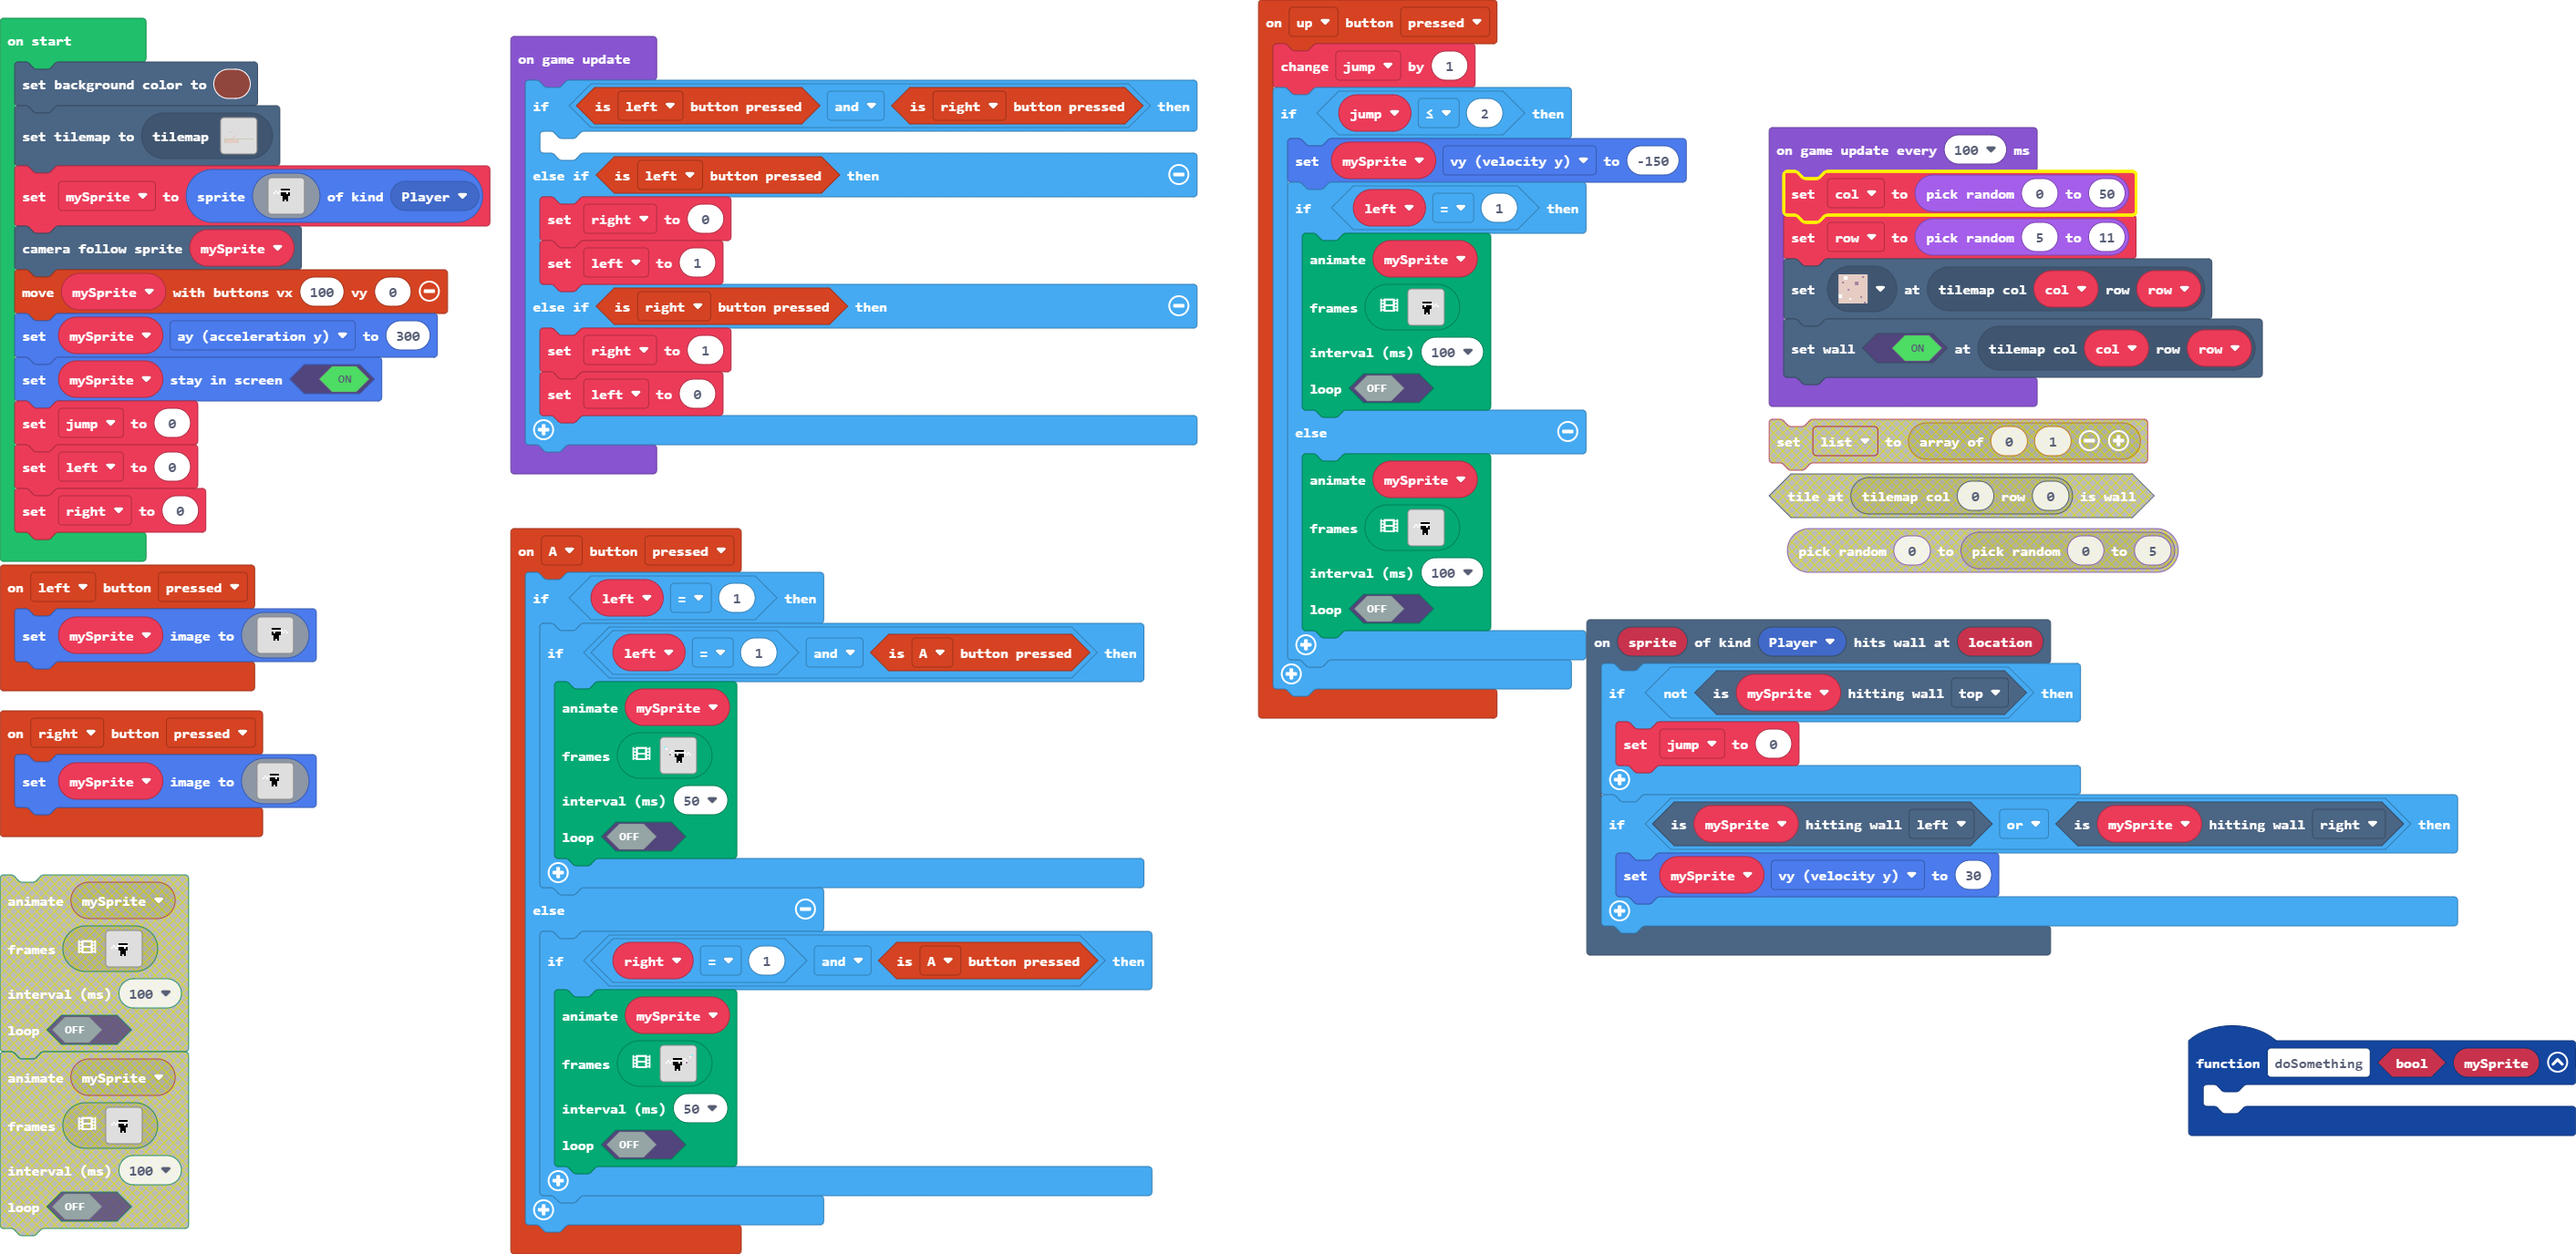
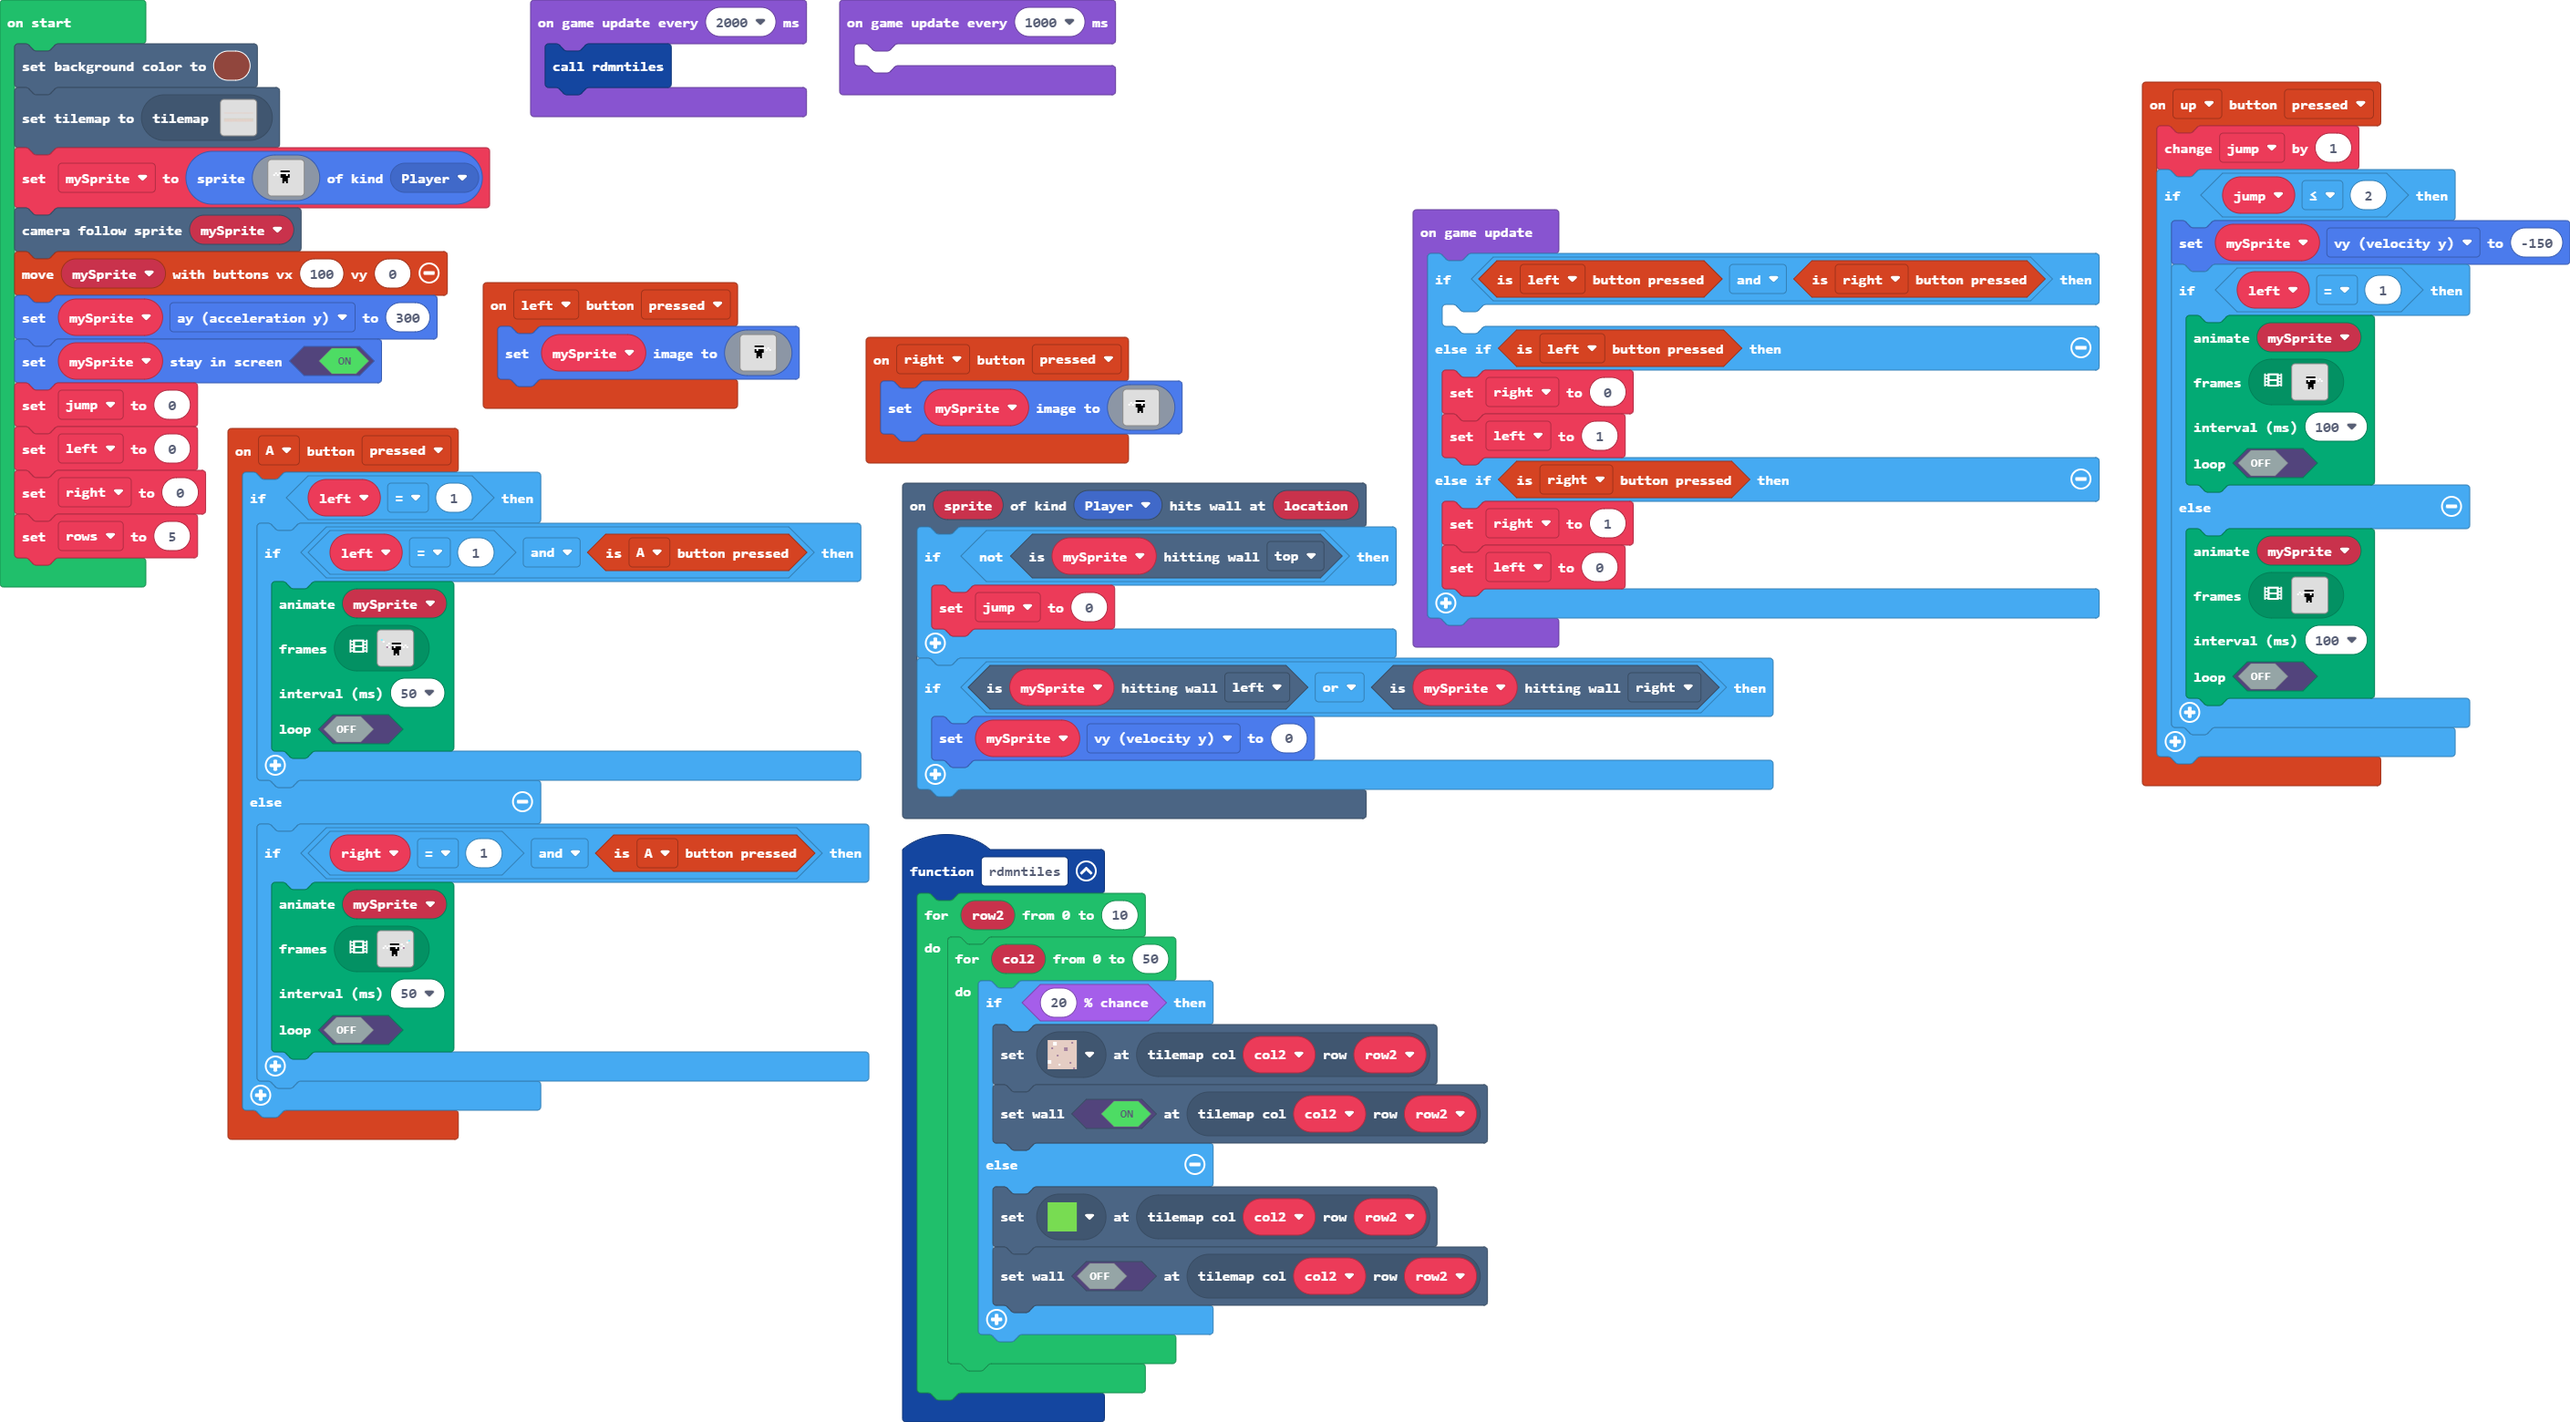
Update main.blocks, main.ts, tilemap.g.jres, tilemap.g.ts

diff --git a/tilemap.g.ts b/tilemap.g.ts
@@ -4,8 +4,6 @@ namespace myTiles {
     export const transparency16 = image.ofBuffer(hex``);
     //% fixedInstance jres blockIdentity=images._tile
     export const tile1 = image.ofBuffer(hex``);
-    //% fixedInstance jres blockIdentity=images._tile
-    export const tile2 = image.ofBuffer(hex``);
 
     helpers._registerFactory("tilemap", function(name: string) {
         switch(helpers.stringTrim(name)) {
@@ -47,28 +45,24 @@ namespace myTiles {
 . . . . . . . . . . . . . . . . 
 . . . . . . . . . . . . . . . . 
 `, [myTiles.transparency16], TileScale.Sixteen);
-            case "level":
-            case "level4":return tiles.createTilemap(hex`0100010001`, img`
-. 
-`, [myTiles.transparency16,myTiles.tile2], TileScale.Sixteen);
             case "level2":
-            case "level2":return tiles.createTilemap(hex`200010000000000000000000000000000000000000000000000000000000000000000000000000000000000000000000000000000000000000000000000000000000000000000000000000000000000000000000000000000000000000000000000000000000000000020202020200000000000000000000000000000000000000000000000000000000000000000000000000000000000000000000000000000000000000000000000000000000000000020000000000000000000000000000000000000000000000000000000000000002000000000000000000000000000000000000000000000000000000000000000000000000000000000000000000000000000000020000000000000000020200000000000000000000000000000000000000000002000000000000000202000000000000000000000000000000000000000000000000000000000002020000000000000000000000000000000000000000000003010101010101010101010101010104010101010101010101010101010101010602020202020202020202020202020500000000000000000000000000000000060202020202020202020202020202050000000000000000000000000000000006020202020202020202020202020205000000000000000000000000000000000602020202020202020202020202020500000000000000000000000000000000`, img`
-................................
-................................
-................................
-.....22222......................
-................................
-.............2..................
-.............2..................
-................................
-.2........22....................
-.2.......22.....................
-........22......................
-22222222222222222222222222222222
-................................
-................................
-................................
-................................
+            case "level2":return tiles.createTilemap(hex`320010000000000000000000000000000000000000000000000000000000000000000000000000000000000000000000000000000000020202020202020202020202020202020202020202020202020202020202020202020202020202020202020202020202020200000000000000000000000000000000000000000000000000000000000000000000000000000000000000000000000000000000000000000000000000000000000000000000000000000000000000000000000000000000000000000000000000000000000000000000000000000000000000000000000000000000000000000000000000000000000000000000000000000000000000000000000000000000000000000000000000000000000000000000000000000000000000000000000000000000000000000000000000000000000000000000000000000000000000000000000000000000000000000000000000000000000000000000000000000000000000000000000000000000000000000000000000000000000000000000000000000000000000000000000000000000000000000000000000000000000000000000000000000000000000000000000000000000000000000000000000000000000000000000000000000000000000000000000000000000000000000000000000000000000000000000000000000000000000000000000000000000000000000000000000000000000000000000000000000000000000000000000000000000000003010101010101010101010101010101010101010101010101010101010101010101010101010101010101010101010101040602020202020202020202020202020202020202020202020202020202020202020202020202020202020202020202020205060202020202020202020202020202020202020202020202020202020202020202020202020202020202020202020202020506020202020202020202020202020202020202020202020202020202020202020202020202020202020202020202020202050602020202020202020202020202020202020202020202020202020202020202020202020202020202020202020202020205`, img`
+22222222222222222222222222222222222222222222222222
+22222222222222222222222222222222222222222222222222
+..................................................
+..................................................
+..................................................
+..................................................
+..................................................
+..................................................
+..................................................
+..................................................
+..................................................
+22222222222222222222222222222222222222222222222222
+..................................................
+..................................................
+..................................................
+..................................................
 `, [myTiles.transparency16,sprites.castle.tilePath2,sprites.castle.tilePath5,sprites.castle.tilePath1,sprites.castle.tilePath3,sprites.castle.tilePath6,sprites.castle.tilePath4], TileScale.Sixteen);
         }
         return null;
@@ -79,8 +73,6 @@ namespace myTiles {
             case "transparency16":return transparency16;
             case "myTile":
             case "tile1":return tile1;
-            case "myTile0":
-            case "tile2":return tile2;
         }
         return null;
     })

diff --git a/main.ts b/main.ts
@@ -194,7 +194,7 @@ scene.onHitWall(SpriteKind.Player, function (sprite, location) {
         jump = 0
     }
     if (mySprite.isHittingTile(CollisionDirection.Left) || mySprite.isHittingTile(CollisionDirection.Right)) {
-        mySprite.vy = 30
+        mySprite.vy = 0
     }
 })
 controller.A.onEvent(ControllerButtonEvent.Pressed, function () {
@@ -530,11 +530,19 @@ controller.right.onEvent(ControllerButtonEvent.Pressed, function () {
         . . . . . . . . . . . . . . . . 
         `)
 })
-function doSomething (bool: boolean, mySprite: Sprite) {
-	
+function rdmntiles () {
+    for (let row2 = 0; row2 <= 10; row2++) {
+        for (let col2 = 0; col2 <= 50; col2++) {
+            if (Math.percentChance(20)) {
+                tiles.setTileAt(tiles.getTileLocation(col2, row2), sprites.castle.tilePath5)
+                tiles.setWallAt(tiles.getTileLocation(col2, row2), true)
+            } else {
+                tiles.setTileAt(tiles.getTileLocation(col2, row2), assets.tile`myTile`)
+                tiles.setWallAt(tiles.getTileLocation(col2, row2), false)
+            }
+        }
+    }
 }
-let row = 0
-let col = 0
 let right = 0
 let left = 0
 let jump = 0
@@ -566,6 +574,7 @@ mySprite.setStayInScreen(true)
 jump = 0
 left = 0
 right = 0
+let rows = 5
 game.onUpdate(function () {
     if (controller.left.isPressed() && controller.right.isPressed()) {
     	
@@ -577,9 +586,9 @@ game.onUpdate(function () {
         left = 0
     }
 })
-game.onUpdateInterval(100, function () {
-    col = randint(0, 50)
-    row = randint(5, 11)
-    tiles.setTileAt(tiles.getTileLocation(col, row), sprites.castle.tilePath5)
-    tiles.setWallAt(tiles.getTileLocation(col, row), true)
+game.onUpdateInterval(2000, function () {
+    rdmntiles()
+})
+game.onUpdateInterval(1000, function () {
+	
 })
